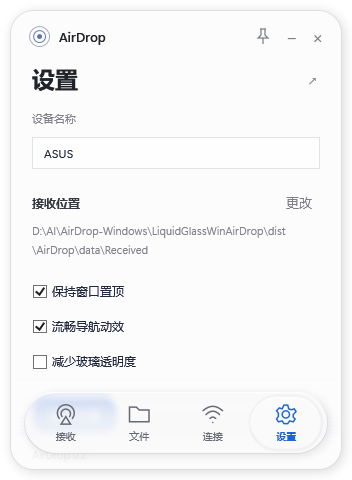
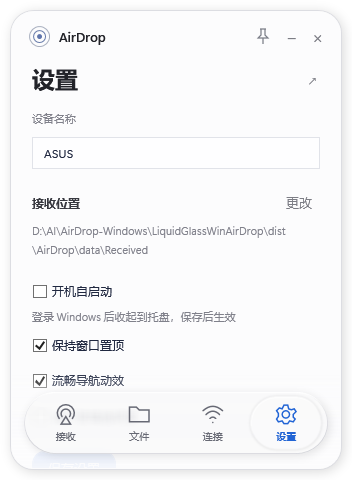
在设置中增加开机自启动开关
通过当前用户启动项注册带引号的应用路径，登录后隐藏到托盘；设置持久化失败回滚注册，预览与测试不启用真实自启动。隔离注册表与隐藏窗口生命周期验证通过，实际系统登录尚未测试。

Changed region(s): [[0.0938, 0.5938, 0.6875, 0.875]]

diff --git a/src/LiquidGlassWinAirDrop/MainWindow.xaml b/src/LiquidGlassWinAirDrop/MainWindow.xaml
@@ -37,6 +37,8 @@
           <ScrollViewer x:Name="SettingsPage" Grid.Row="1" Visibility="Collapsed" VerticalScrollBarVisibility="Hidden" ScrollChanged="ContentScrolled"><StackPanel Margin="0,5,0,95">
             <TextBlock Text="设备名称" Style="{StaticResource Caption}"/><TextBox x:Name="DeviceNameBox" Text="{Binding DeviceName, Mode=TwoWay, UpdateSourceTrigger=PropertyChanged}" FontSize="12" MaxLength="63" Padding="9,7" Margin="0,7,0,17" BorderBrush="#E1E3E9"/>
             <DockPanel><TextBlock Text="接收位置" Style="{StaticResource RowTitle}" VerticalAlignment="Center"/><Button Content="更改" Style="{StaticResource QuietButton}" HorizontalAlignment="Right" Click="ChooseFolder"/></DockPanel><TextBlock Text="{Binding ReceiveDirectory}" Style="{StaticResource Caption}" TextWrapping="Wrap" Margin="0,4,0,13"/>
+            <CheckBox Content="开机自启动" IsChecked="{Binding StartWithWindows}" FontSize="12"/>
+            <TextBlock Text="登录 Windows 后收起到托盘，保存后生效" Style="{StaticResource Caption}" TextWrapping="Wrap"/>
             <CheckBox Content="保持窗口置顶" IsChecked="{Binding AlwaysOnTop}" FontSize="12"/><CheckBox Content="流畅导航动效" IsChecked="{Binding MotionEnabled}" FontSize="12"/><CheckBox Content="减少玻璃透明度" IsChecked="{Binding HighContrast}" FontSize="12"/>
             <Button Content="保存设置" Foreground="White" Background="#437AE1" BorderBrush="#437AE1" HorizontalAlignment="Left" Padding="15,8" Margin="0,17,0,15" Click="SaveSettings"/><TextBlock Text="AirDrop 0.2&#x0a;独立开发预览版" Style="{StaticResource Caption}"/>
           </StackPanel></ScrollViewer>

diff --git a/src/LiquidGlassWinAirDrop/MainWindow.xaml.cs b/src/LiquidGlassWinAirDrop/MainWindow.xaml.cs
@@ -25,6 +25,8 @@ public partial class MainWindow : Window
     private readonly string? _preview;
     private readonly string? _uiReport;
     private readonly bool _startReceiving;
+    private readonly bool _startHidden;
+    private readonly WindowsStartup _startup = new(Environment.ProcessPath ?? throw new InvalidOperationException("无法定位应用程序。"));
     private Preferences _saved;
     private bool _scanning, _closed, _exitRequested;
     private int _folderRevision;
@@ -32,13 +34,14 @@ public partial class MainWindow : Window
     private System.Windows.Forms.NotifyIcon? _tray;
     private readonly NativeAirDropReceiver _receiver = new();
 
-    public MainWindow(PreferenceStore store, Preferences preferences, string? preview, string? uiReport = null,bool startReceiving=false)
+    public MainWindow(PreferenceStore store, Preferences preferences, string? preview, string? uiReport = null,bool startReceiving=false,bool startHidden=false)
     {
         _store = store;
         _saved = preferences;
         _preview = preview;
         _uiReport = uiReport;
         _startReceiving=startReceiving;
+        _startHidden=startHidden;
         InitializeComponent();
         BottomNavigation.SelectionChanged += Navigate;
         _model.Load(preferences);
@@ -72,6 +75,12 @@ public partial class MainWindow : Window
         try
         {
             if (_preview is null) { WindowPlacement.Dock(this); CreateTray(); }
+            if(_startHidden) { Hide(); Opacity=1; }
+            if(_preview is null && _uiReport is null)
+            {
+                try { _model.StartWithWindows=_startup.IsEnabled(); }
+                catch(Exception error) { Feedback("无法读取开机自启动状态："+error.Message); }
+            }
             _catalog.Watch(_saved.ReceiveDirectory);
             await RefreshFilesAsync();
             await RefreshHardwareAsync();
@@ -139,6 +148,12 @@ public partial class MainWindow : Window
         void Check(bool value, string label) { if (!value) throw new Exception(label); passed.Add(label); }
         try
         {
+            if(_startHidden)
+            {
+                Check(!IsVisible && _tray?.Visible==true,"startup mode hides the window and creates its tray icon");
+                ShowFromTray();
+                Check(IsVisible && Opacity==1,"startup tray restore reveals a fully opaque live window");
+            }
             var placement = WindowPlacement.Inspect(this);
             Check(placement.RightGap >= 0 && placement.RightGap < 50 && placement.BottomGap >= 0 && placement.BottomGap < 50,
                 "native window is inside the monitor working area at its bottom-right corner");
@@ -316,7 +331,8 @@ public partial class MainWindow : Window
             var probe = Path.Combine(preferences.ReceiveDirectory, ".liquidglass-" + Guid.NewGuid().ToString("N") + ".tmp");
             try { using (new FileStream(probe, FileMode.CreateNew, FileAccess.Write, FileShare.None)) { } }
             finally { if (File.Exists(probe)) File.Delete(probe); }
-            _store.Save(preferences);
+            if(_preview is not null || _uiReport is not null) _store.Save(preferences);
+            else _startup.Save(preferences.StartWithWindows,()=>_store.Save(preferences));
             _saved = preferences;
             _catalog.Watch(preferences.ReceiveDirectory);
             await RefreshFilesAsync();

diff --git a/src/LiquidGlassWinAirDrop/StartupChecks.cs b/src/LiquidGlassWinAirDrop/StartupChecks.cs
@@ -1,0 +1,42 @@
+using System;
+using System.Collections.Generic;
+using System.IO;
+using System.Text.Json;
+using Microsoft.Win32;
+
+namespace LiquidGlassWinAirDrop;
+
+internal static class StartupChecks
+{
+    public static int Run(string report)
+    {
+        var path=@"Software\LiquidGlassWinAirDrop\Tests\"+Guid.NewGuid().ToString("N");
+        var passed=new List<string>(); string? error=null;
+        void Check(bool value,string name) { if(!value)throw new IOException(name); passed.Add(name); }
+        try
+        {
+            var startup=new WindowsStartup(@"C:\测试 空格\AirDrop.exe",path);
+            using(var key=Registry.CurrentUser.CreateSubKey(path))key.SetValue("OtherApp","preserve");
+            Check(!startup.IsEnabled(),"absent startup entry is disabled");
+            bool saved=false;
+            startup.Save(true,()=>saved=true);
+            using(var key=Registry.CurrentUser.OpenSubKey(path))
+                Check(saved && startup.IsEnabled() && (string?)key?.GetValue(WindowsStartup.ValueName)==@"""C:\测试 空格\AirDrop.exe"" --startup", "enable persists a quoted executable and startup argument");
+            try { startup.Save(false,()=>throw new IOException("simulated settings failure")); }
+            catch(IOException failure) when(failure.Message=="simulated settings failure") { }
+            Check(startup.IsEnabled(),"failed settings persistence restores the original enabled entry");
+            startup.Save(false,()=>{});
+            using(var key=Registry.CurrentUser.OpenSubKey(path))
+                Check(!startup.IsEnabled() && (string?)key?.GetValue("OtherApp")=="preserve", "disable removes only the owned entry");
+            try { startup.Save(true,()=>throw new IOException("simulated settings failure")); }
+            catch(IOException failure) when(failure.Message=="simulated settings failure") { }
+            Check(!startup.IsEnabled(),"failed enable leaves no startup registration");
+        }
+        catch(Exception failure) { error=failure.ToString(); }
+        finally { Registry.CurrentUser.DeleteSubKeyTree(path,false); }
+        Directory.CreateDirectory(Path.GetDirectoryName(Path.GetFullPath(report))!);
+        File.WriteAllText(report,JsonSerializer.Serialize(new {Success=error is null,Passed=passed,Error=error,
+            Scope="isolated HKCU test key; real Windows Run key never modified; no reboot/logon performed"},PreferenceStore.JsonOptions));
+        return error is null?0:1;
+    }
+}

diff --git a/src/LiquidGlassWinAirDrop/App.xaml.cs b/src/LiquidGlassWinAirDrop/App.xaml.cs
@@ -15,6 +15,8 @@ public partial class App : System.Windows.Application
         ShutdownMode = ShutdownMode.OnExplicitShutdown;
         try
         {
+            if(e.Args.Length==2 && e.Args[0]=="--startup-registration-check")
+            { Shutdown(StartupChecks.Run(e.Args[1])); return; }
             if(e.Args.Length==2 && e.Args[0]=="--engine-check")
             { Shutdown(await EngineChecks.RunAsync(e.Args[1])); return; }
             if (e.Args.Length == 2 && e.Args[0] == "--make-icon")
@@ -40,9 +42,12 @@ public partial class App : System.Windows.Application
             }
             string? preview = null, uiReport = null;
             bool receive=false;
+            bool startHidden=false;
             if (e.Args.Length > 0)
             {
                 if(e.Args.Length==1 && e.Args[0]=="--receive")receive=true;
+                else if(e.Args.Length==1 && e.Args[0]=="--startup")startHidden=true;
+                else if(e.Args.Length==2 && e.Args[0]=="--startup-check") { uiReport=Path.GetFullPath(e.Args[1]); startHidden=true; }
                 else if (e.Args.Length == 2 && e.Args[0] == "--preview") preview = Path.GetFullPath(e.Args[1]);
                 else if (e.Args.Length == 2 && e.Args[0] == "--ui-check") uiReport = Path.GetFullPath(e.Args[1]);
                 else throw new ArgumentException("Unrecognized arguments");
@@ -55,7 +60,8 @@ public partial class App : System.Windows.Application
             var store = new PreferenceStore(uiReport is null ? Path.Combine(AppContext.BaseDirectory, "data") :
                 Path.Combine(Path.GetDirectoryName(uiReport)!, "ui-check-data"));
             var preferences = store.Load();
-            var window = new MainWindow(store, preferences, preview, uiReport,receive);
+            var window = new MainWindow(store, preferences, preview, uiReport,receive,startHidden);
+            if(startHidden)window.Opacity=0;
             MainWindow = window;
             ShutdownMode = ShutdownMode.OnMainWindowClose;
             window.Show();

diff --git a/src/LiquidGlassWinAirDrop/ViewModel.cs b/src/LiquidGlassWinAirDrop/ViewModel.cs
@@ -12,6 +12,7 @@ public sealed class MainViewModel : INotifyPropertyChanged
     private string _deviceName = "";
     private string _receiveDirectory = "";
     private bool _motion = true, _contrast, _alwaysOnTop = true;
+    private bool _startWithWindows;
     private HardwareSnapshot? _snapshot;
     private IReadOnlyList<FileEntry> _allFiles = Array.Empty<FileEntry>();
     private string _receiverStatus = "接收尚未启动";
@@ -23,6 +24,7 @@ public sealed class MainViewModel : INotifyPropertyChanged
     public bool MotionEnabled { get => _motion; set { _motion = value; Notify(); } }
     public bool HighContrast { get => _contrast; set { _contrast = value; Notify(); } }
     public bool AlwaysOnTop { get => _alwaysOnTop; set { _alwaysOnTop = value; Notify(); } }
+    public bool StartWithWindows { get => _startWithWindows; set { _startWithWindows = value; Notify(); } }
     public string ReceiverStatus { get => _receiverStatus; set { _receiverStatus = value; Notify(); } }
     public string FileCountLabel => $"{_allFiles.Count} 个文件";
     public string LatestTitle => _allFiles.Count == 0 ? "还没有文件，留一点期待。" : _allFiles[0].Name;
@@ -39,9 +41,10 @@ public sealed class MainViewModel : INotifyPropertyChanged
         MotionEnabled = preferences.MotionEnabled;
         HighContrast = preferences.HighContrast;
         AlwaysOnTop = preferences.AlwaysOnTop;
+        StartWithWindows = preferences.StartWithWindows;
     }
 
-    public Preferences Preferences => new() { DeviceName = DeviceName, ReceiveDirectory = ReceiveDirectory, MotionEnabled = MotionEnabled, HighContrast = HighContrast, AlwaysOnTop = AlwaysOnTop };
+    public Preferences Preferences => new() { DeviceName = DeviceName, ReceiveDirectory = ReceiveDirectory, MotionEnabled = MotionEnabled, HighContrast = HighContrast, AlwaysOnTop = AlwaysOnTop, StartWithWindows = StartWithWindows };
 
     public void UpdateHardware(HardwareSnapshot snapshot)
     {

diff --git a/src/LiquidGlassWinAirDrop/WindowsStartup.cs b/src/LiquidGlassWinAirDrop/WindowsStartup.cs
@@ -1,0 +1,35 @@
+using System;
+using System.IO;
+using Microsoft.Win32;
+
+namespace LiquidGlassWinAirDrop;
+
+internal sealed class WindowsStartup(string executable, string keyPath = @"Software\Microsoft\Windows\CurrentVersion\Run")
+{
+    internal const string ValueName = "LiquidGlassWinAirDrop";
+    internal string Command => "\"" + Path.GetFullPath(executable) + "\" --startup";
+    public bool IsEnabled()
+    {
+        using var key = Registry.CurrentUser.OpenSubKey(keyPath);
+        return string.Equals(key?.GetValue(ValueName) as string, Command, StringComparison.OrdinalIgnoreCase);
+    }
+    // Restore the original entry if preference persistence fails.
+    public void Save(bool enabled, Action persistPreferences)
+    {
+        using var key = Registry.CurrentUser.CreateSubKey(keyPath, true);
+        var previous = key.GetValue(ValueName, null, RegistryValueOptions.DoNotExpandEnvironmentNames);
+        var kind = previous is null ? RegistryValueKind.String : key.GetValueKind(ValueName);
+        try
+        {
+            if (enabled) key.SetValue(ValueName, Command, RegistryValueKind.String);
+            else key.DeleteValue(ValueName, false);
+            persistPreferences();
+        }
+        catch
+        {
+            if (previous is null) key.DeleteValue(ValueName, false);
+            else key.SetValue(ValueName, previous, kind);
+            throw;
+        }
+    }
+}

diff --git a/src/LiquidGlassWinAirDrop/Storage.cs b/src/LiquidGlassWinAirDrop/Storage.cs
@@ -17,6 +17,7 @@ public sealed record Preferences
     public bool MotionEnabled { get; init; } = true;
     public bool HighContrast { get; init; }
     public bool AlwaysOnTop { get; init; } = true;
+    public bool StartWithWindows { get; init; }
 }
 
 public sealed class PreferenceStore(string dataRoot)

diff --git a/README.md b/README.md
@@ -6,7 +6,7 @@
 
 ## 运行
 
-双击 `dist/AirDrop/AirDrop.exe`，保留同目录文件；需要 .NET 10 Desktop Runtime。界面支持设备名、接收目录、文件搜索、动画/透明度、置顶和收起托盘。文件页列出真实目录内容，不将手动放入的文件冒称 AirDrop 传输。
+双击 `dist/AirDrop/AirDrop.exe`，保留同目录文件；需要 .NET 10 Desktop Runtime。界面支持设备名、接收目录、文件搜索、动画/透明度、置顶和收起托盘。文件页列出真实目录内容，不将手动放入的文件冒称 AirDrop 传输。设置中的“开机自启动”默认关闭，勾选后点击保存设置生效；Windows登录后应用收起到托盘，双击托盘图标打开。取消勾选并保存即可关闭自启动。自启动只打开应用，接收仍需手动开启。
 
 WinUSB 准备完成后，手动点击「开启接收」才启动专用 USB、AWDL、用户态 IPv6/TCP、TLS 和 BLE 发现组件。每次请求需明确确认，45秒无答复默认拒绝；文件默认存入设置的目录。关闭窗口收起托盘，托盘「退出」停止后台；Windows Job 负责应用意外退出时清理其子进程。
 

diff --git a/docs/WORK_QUEUE.md b/docs/WORK_QUEUE.md
@@ -14,3 +14,4 @@
 | L05d | iPhone真实发现/确认/文件传输 | 单次真机接收通过：18:05手机发现ASUS、逐次确认、实收3,401,455B图片、HTTP200/文件事件，大小与声明一致，2544×3408解码成功，4.226s约0.805MB/s。本地SHA256已记，未与手机源哈希对比。多文件/重复/中断/长时未验收；BLE仍未观察Started。VALIDATION.md及iphone-transfer.local.json |
 | L06 | 移除导航蓝框、改名AirDrop | 完成：显式透明按钮模板，名称/标题/托盘/程序集/输出路径已改；WPF渲染、自检通过 |
 | L07 | 固定版本、独立构建与许可 | 本机完成：native.lock.json、Restore-Sources/Build-Native/Package-Engine；未做干净机器完整恢复，也未对外发布 |
+| L08 | 设置中的开机自启动 | 完成：默认关闭、保存后写入当前用户Run项；--startup隐藏到托盘，不自动开始无线接收。隔离注册表5项、隐藏启动/托盘恢复10项、17项基础及8项常规UI通过；实际重启/登录未验收。2026-11-14，VALIDATION.md |

diff --git a/WORK_LOG.md b/WORK_LOG.md
@@ -1,5 +1,11 @@
 # 独立工程工作记录
 
+## 2026-11-14：增加开机自启动设置
+
+- 新增默认关闭的开机自启动选项，保存后写入当前用户Run项，关闭仅删除自身值；启动命令带完整路径和--startup，设置保存失败回滚注册表。
+- 登录启动只运行应用并隐藏到托盘，双击恢复；新增设置遵循原小窗布局。发布更新保留用户文件和配置，不自动开启真实启动项。
+- 17项原基础/材质、8项常规WPF、5项隔离注册表和10项隐藏启动WPF验证通过，设置截图已检查。未实际重启或注销/登录，证据与限制见VALIDATION和L08。
+
 ## 2026-11-13 18:05：真实iPhone首次接收通过
 
 - 用户报告在手机看到了ASUS并发送。日志确认iPhone Discover/Ask、Windows逐次批准、真实Upload200和files_received；实际图片3,401,455字节，与声明一致，2544×3408解码成功。
